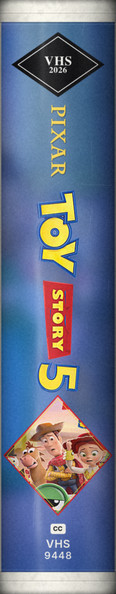
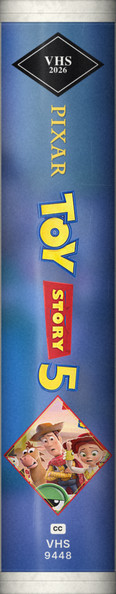
Clamshells: ends close to square, only the corners eased
Claude-Session: https://claude.ai/code/session_01RnhGoJvJQYqU1rpTHc7xo4

Changed region(s): [[0.0, 0.9697, 1.0, 1.0], [0.0, 0.0, 1.0, 0.0303]]

diff --git a/style.css b/style.css
@@ -258,10 +258,10 @@ h1.ticket img { display: block; margin: 0 auto; width: min(380px, 78vw); height:
 .spine.designed { background-size: 100% 100%; background-repeat: no-repeat; background-color: #111; }
 .spine.designed::after { background: linear-gradient(90deg, rgba(255,255,255,.06), transparent 14%, transparent 80%, rgba(0,0,0,.22)); }
 /* a Disney/Pixar clamshell: soft moulded plastic, so the ends roll over instead of meeting at a square corner */
-.spine.designed.clam { border-radius: 13px / 10px; }
+.spine.designed.clam { border-radius: 4px; } /* the ends are nearly square: only the corners are eased */
 .spine.designed.clam::after { border-radius: inherit; background:
   linear-gradient(90deg, rgba(0,0,0,.30) 0, rgba(0,0,0,.06) 9%, rgba(255,255,255,.10) 30%, transparent 55%, rgba(0,0,0,.10) 86%, rgba(0,0,0,.42) 100%),
-  linear-gradient(180deg, rgba(0,0,0,.16) 0, transparent 6px, transparent calc(100% - 7px), rgba(0,0,0,.22)); }
+  linear-gradient(180deg, rgba(0,0,0,.08) 0, transparent 3px, transparent calc(100% - 3px), rgba(0,0,0,.12)); }
 body.designed-spine .vcr-respine { display: none; }
 .spine:hover, .spine:focus-visible { transform: translateY(-9px); filter: brightness(1.15); outline: none; }
 .spine:focus-visible { box-shadow: 0 0 0 2px var(--gold); }

diff --git a/spinegen/lib.py b/spinegen/lib.py
@@ -373,11 +373,11 @@ def finish_vhs(img, seed, kind='slip', wear=0.5, gloss=0.05, fade=0.0, warm=0.0,
         # the caps: moulded plastic rounding over at the very ends, a seam, a little grime
         capm = ((yy < ins0) | (yy >= ins1)).astype(np.float32)
         dy_ = np.minimum(yy, h - 1 - yy) / S
-        a *= (1 - capm * (0.20 * np.clip(1 - dy_ / 12.0, 0, 1) ** 2 + 0.05 * np.clip(fbm(h, w, 14 * S, rng, 3), -1, 1) ** 2))[..., None]
+        a *= (1 - capm * (0.10 * np.clip(1 - dy_ / 6.0, 0, 1) ** 2 + 0.05 * np.clip(fbm(h, w, 14 * S, rng, 3), -1, 1) ** 2))[..., None]
         # the ends are rolled: the plastic turns away at each corner, so shade into the corners
-        cr = 30.0
+        cr = 12.0  # a small ease only: the ends of the case are close to square
         cd = np.sqrt(np.clip(1 - dx / cr, 0, 1) ** 2 + np.clip(1 - dy_ / cr, 0, 1) ** 2)
-        a *= (1 - 0.34 * np.clip(cd - 0.72, 0, 1) ** 1.3 / 0.5)[..., None]
+        a *= (1 - 0.18 * np.clip(cd - 0.8, 0, 1) / 0.6)[..., None]
         seam = rng.uniform(0.45, 0.62) * CLAM_CAP
         a *= (1 - capm * 0.16 * np.exp(-((dy_ - seam) / 0.9) ** 2))[..., None]
         a += (capm * 0.05 * np.exp(-((dy_ - seam + 2.0) / 1.0) ** 2))[..., None]

diff --git a/CLAUDE.md b/CLAUDE.md
@@ -30,7 +30,7 @@ One designed spine picture per tape, made in November 2026 with `spinegen/` (por
 - Catalogue numbers, sticker text and prices are invented. Malice uses the Castle Rock logo file because `films.json` has the wrong studio (Nelvana) for it.
 - Check new spines scaled to 250px tall; thin lettering fades at that size.
 - Rules Ian has set for spines: card wear must never show on the cassette inside the thumb notch (it is plastic; `finish_vhs(notch=...)` repaints it after the wear), the VHS mark and numbers always sit at the foot, and every spine has its title running down it (no title blocks set across the top; Girl in the Box and The Devil Wears Prada 2 were redone for this on 16 November 2026).
-- Disney and Pixar rule (Ian, 16 November 2026): every Disney or Pixar film gets the white clamshell, not a slipcase, laid out like the 1990s Disney clamshell spines (his reference photos): artwork the full length, a black diamond at the head, the studio logo reading down, the title in the film's own logo lettering, a character portrait in a red diamond near the foot, then CC, VHS and the number. Use `disney(...)` in `tapes.py` (currently Zootopia 2, Hoppers, Toy Story 5). A clamshell is a bigger box: its picture is drawn wider and 1188px tall (white plastic caps top and bottom, added by `finish_vhs(kind='clam')`) and saved at the same scale as the others, and `prepare()` in `app.js` sizes any spine picture taller than 560px from the picture itself, so these stand about 270px tall and 53px wide beside the 250px slipcases. The whole spine is rounded plastic, not a flat rectangular face (Ian's note): the picture is shaded as a curved moulding that falls away to both long edges, and `.spine.designed.clam` in `style.css` rounds the corners and adds the same roll-off. The head diamond holds plain type ("VHS 2026"); the "Classics" emblem from the reference is not recreated. Toy Story 5's title is the poster's own logo cut into its three pieces by colour (`ts_letters`, `ts_plate`) and laid along the spine as TOY, the red STORY plate, then the 5, the way the Toy Story tapes did it.
+- Disney and Pixar rule (Ian, 16 November 2026): every Disney or Pixar film gets the white clamshell, not a slipcase, laid out like the 1990s Disney clamshell spines (his reference photos): artwork the full length, a black diamond at the head, the studio logo reading down, the title in the film's own logo lettering, a character portrait in a red diamond near the foot, then CC, VHS and the number. Use `disney(...)` in `tapes.py` (currently Zootopia 2, Hoppers, Toy Story 5). A clamshell is a bigger box: its picture is drawn wider and 1188px tall (white plastic caps top and bottom, added by `finish_vhs(kind='clam')`) and saved at the same scale as the others, and `prepare()` in `app.js` sizes any spine picture taller than 560px from the picture itself, so these stand about 270px tall and 53px wide beside the 250px slipcases. The whole spine is rounded plastic, not a flat rectangular face (Ian's note): the picture is shaded as a curved moulding that falls away to both long edges, and `.spine.designed.clam` in `style.css` adds the same roll-off. The ends stay close to square (4px corner radius; a rounder end was tried and Ian found it too rounded). The head diamond holds plain type ("VHS 2026"); the "Classics" emblem from the reference is not recreated. Toy Story 5's title is the poster's own logo cut into its three pieces by colour (`ts_letters`, `ts_plate`) and laid along the spine as TOY, the red STORY plate, then the 5, the way the Toy Story tapes did it.
 - Look and sources: modelled on Ian's reference image of modern films given retro VHS box spines (title in the poster's own lettering, a framed picture at the head, studio logo, format mark and catalogue number at the foot, rental stickers, worn card). Studio logos and poster crops (including animated and comic characters) are welcome on spines; logos are placed from `logos/`, never redrawn. The typed-only "ZIPPORAH FILMS" (High School) and "UTOPIA" (The Sweet East), and the cast/director credit lines on some spines, were written from memory and may be wrong.
 - Five tapes have no logo file and carry a line of type instead: High School, The Sweet East, Louis C.K.: Ridiculous, Jeff Arcuri, Face/Off.
 - Not verified: that the "Re-mark spine" button is hidden on designed tapes (it only shows with the GitHub token saved, so it could not be seen in a test browser).
